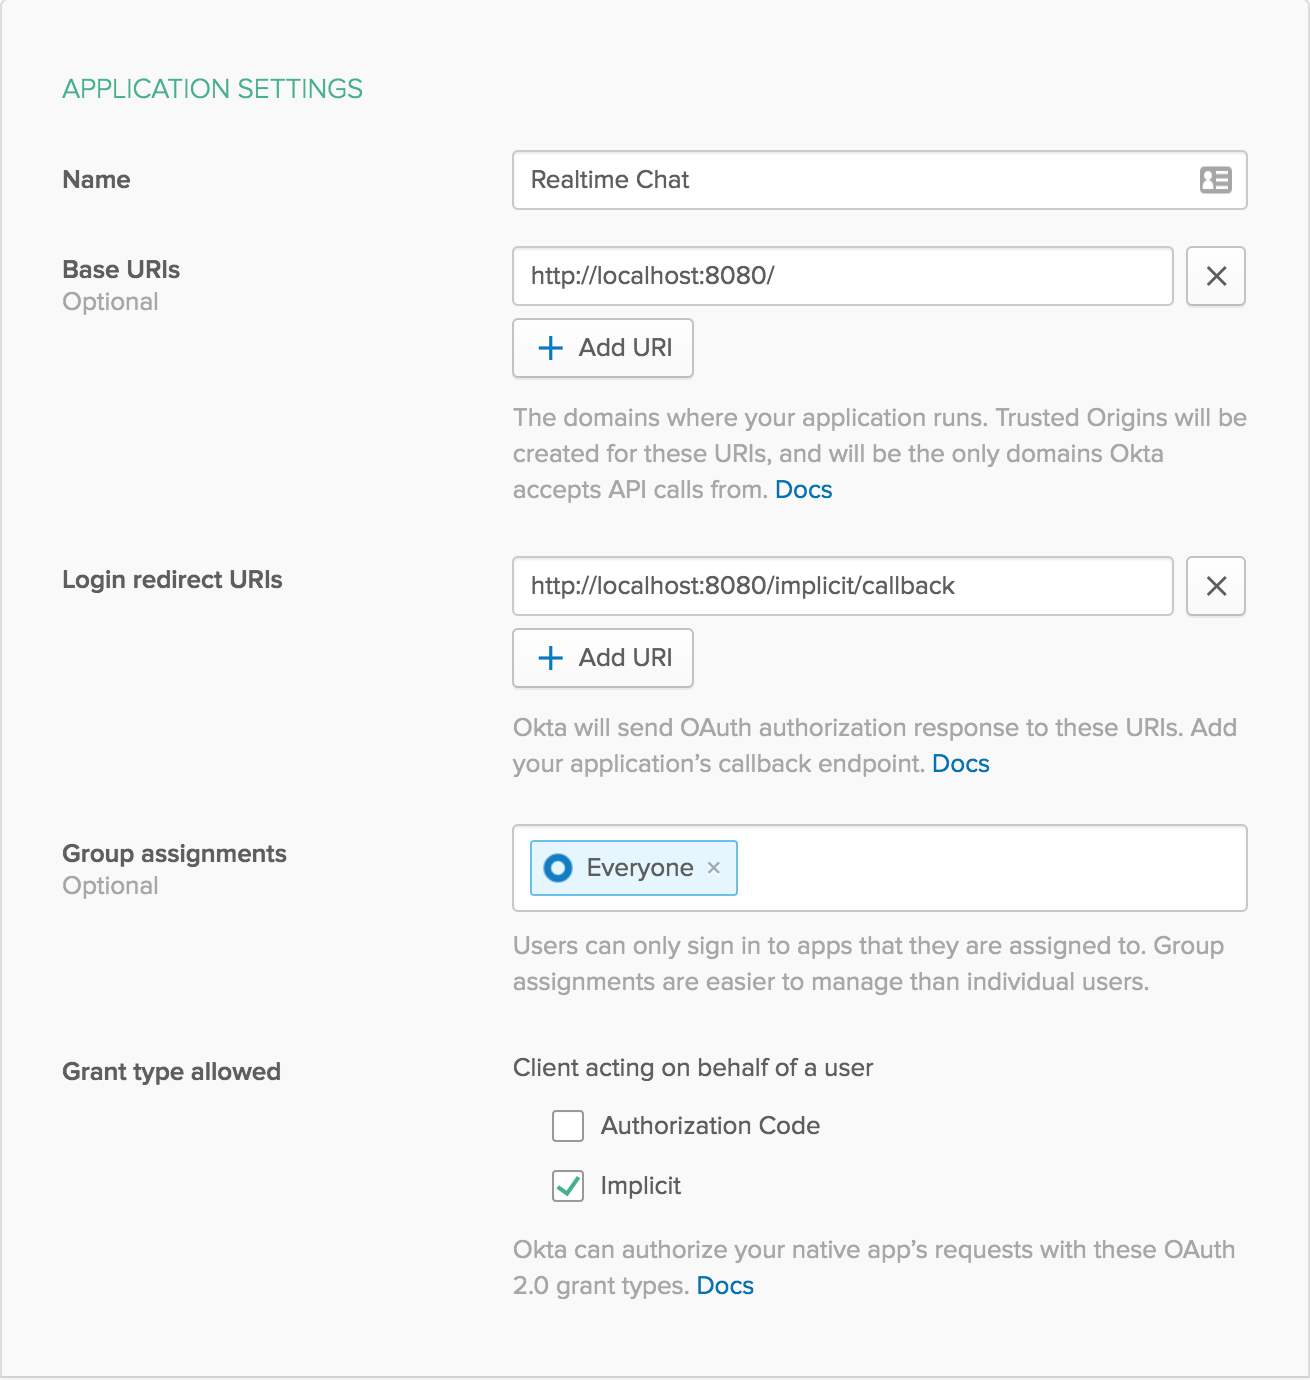
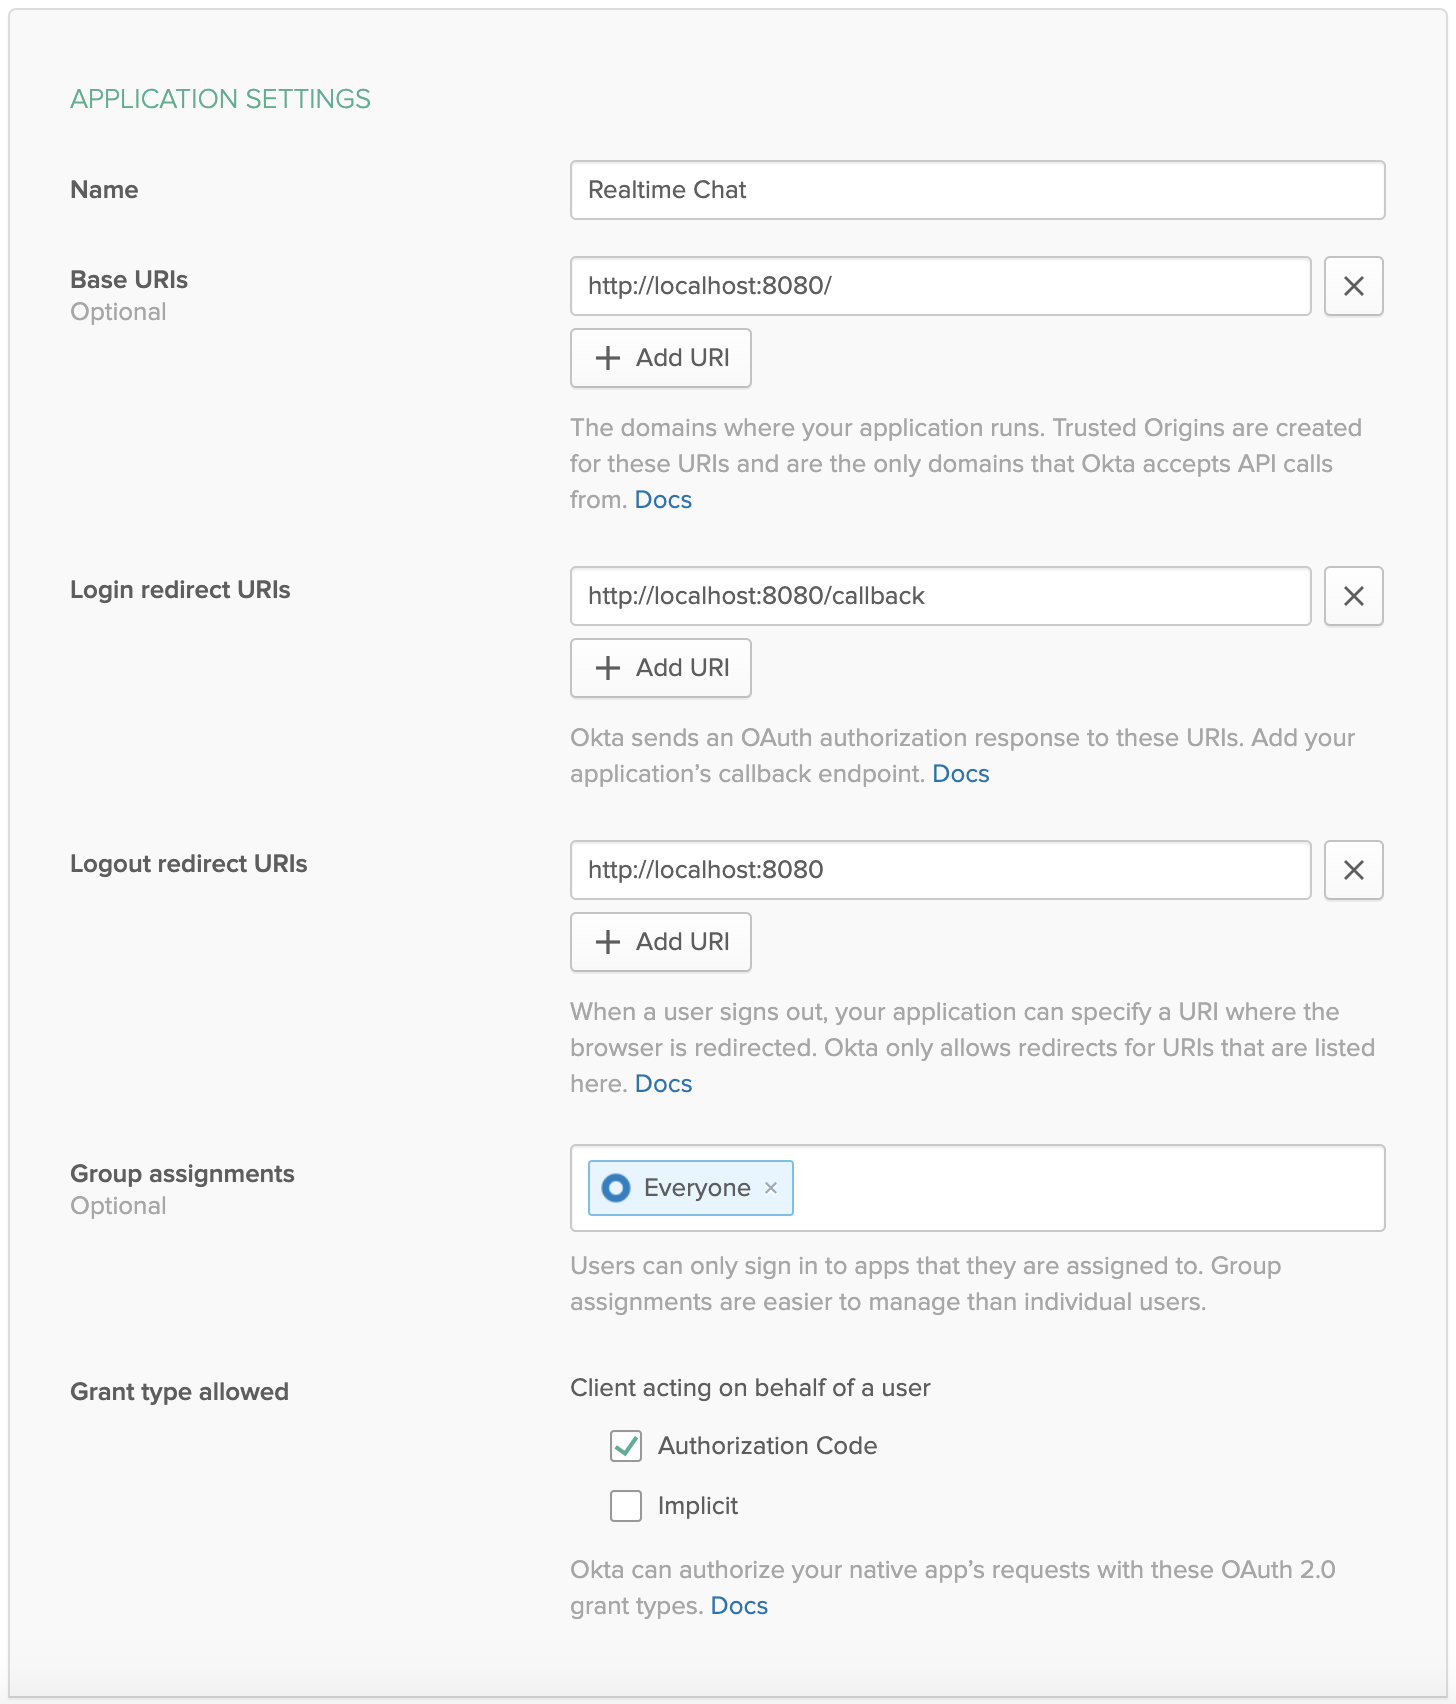
Update Node API with TypeScript to use latest versions

diff --git a/_source/_posts/2019-05-07-nodejs-typescript-api.md b/_source/_posts/2019-05-07-nodejs-typescript-api.md
@@ -23,12 +23,12 @@ If you're both a fan of JavaScript and strongly typed languages, then you're in 
 If you don't have Node installed yet, you'll need to do that first. That's the only real prerequisite for this tutorial. To see if you have it installed, try typing `node --version` in a terminal. You'll want to get a response back with something like `v8` or higher. If you get an error, you may need to install it. I recommend installing via [nvm](https://github.com/creationix/nvm). The install should look something like this:
 
 ```bash
-curl -o- https://raw.githubusercontent.com/creationix/nvm/v0.34.0/install.sh | bash
+curl -o- https://raw.githubusercontent.com/nvm-sh/nvm/v0.35.3/install.sh | bash
 ```
 
 But if that doesn't work, head to [the docs](https://github.com/creationix/nvm#installation-and-update) to see how to get it up and running for your system.
 
-Once you have Node running, create a new directory for your chat server, then use `npm` to create a package.json file for you:
+Once you have Node running, create a new directory for your chat server, then use `npm` to create a `package.json` file for you:
 
 ```bash
 mkdir real-time-chat
@@ -52,11 +52,11 @@ Edit the `package.json` file so the `"main"` entry says `"dist/index.js"`. Then 
 You'll also need to install some dependencies:
 
 ```bash
-npm install express@4.16.4
-npm install --save-dev typescript@3.3.3333 ts-node-dev@1.0.0-pre.32 tslint@5.13.1 @types/node@11.11.3 @types/express@4.16.1
+npm install express@4.17.1
+npm install --save-dev typescript@3.9.3 ts-node-dev@1.0.0-pre.44 tslint@6.1.2 @types/node@14.0.5 @types/express@4.17.6
 ```
 
-You'll need to create some configuration files for typescript. Create a `tslint.json` file:
+You'll need to create some configuration files for TypeScript. Create a `tslint.json` file:
 
 ```json
 {
@@ -67,7 +67,7 @@ You'll need to create some configuration files for typescript. Create a `tslint.
 }
 ```
 
-and a `tsconfig.json` file:
+And a `tsconfig.json` file:
 
 ```json
 {
@@ -123,8 +123,8 @@ Another neat developer tool is Parcel. It provides a really simple way to bundle
 To set this up with React, add the following dependencies:
 
 ```bash
-npm install react@16.8.5 react-dom@16.8.5
-npm install --save-dev parcel-bundler@1.12.3 @types/parcel-bundler@1.10.2 @types/react@16.8.8 @types/react@16.8.2 @babel/core@7.3.4 @babel/preset-env@7.3.4
+npm install react@16.13.1 react-dom@16.13.1
+npm install --save-dev parcel-bundler@1.12.4 @types/parcel-bundler@1.12.1 @types/react@16.9.35 @types/react@16.9.35 @babel/core@7.10.2 @babel/preset-env@7.10.2
 ```
 
 Create a new folder for your client-side code in `src/client`:
@@ -179,7 +179,7 @@ Then create a new file `src/client/index.html`:
 
 You'll then need to create the `src/client/index.tsx` file mentioned.
 
-```typescript
+```tsx
 import React from "react";
 import ReactDOM from "react-dom";
 
@@ -193,7 +193,7 @@ ReactDOM.render(
 
 As well as `src/client/App.tsx`:
 
-```typescript
+```tsx
 import React from "react";
 
 export default () => <div>Hello world</div>;
@@ -235,8 +235,8 @@ app.listen(port, () => {
 For real-time applications, Socket.IO makes it easy to send messages back and forth between the server and any connected clients. It uses WebSockets to keep a connection open so messages are instant, but it does fall back to polling in cases where WebSockets aren't available. You'll need to add a few new dependencies for this:
 
 ```bash
-npm install immutable@4.0.0-rc.12 socket.io@2.2.0 socket.io-client@2.2.0 uuid@3.3.2
-npm install --save-dev @types/socket.io@2.1.2 @types/uuid@3.4.4 sass@1.17.3
+npm install immutable@4.0.0-rc.12 socket.io@2.3.0 socket.io-client@2.3.0 uuid@8.1.0
+npm install --save-dev @types/socket.io@2.1.8 @types/uuid@8.0.0 sass@1.26.7
 ```
 
 ### Set Up the Backend
@@ -245,7 +245,7 @@ To set up the backend, create a new file `src/socket.ts`:
 
 ```typescript
 import { Server, Socket } from "socket.io";
-import uuid from "uuid/v4";
+import { v4 as uuidv4 } from "uuid";
 
 const messageExpirationTimeMS = 10 * 1000;
 
@@ -279,7 +279,7 @@ export default (io: Server) => {
 
     socket.on("message", (value: string) => {
       const message: IMessage = {
-        id: uuid(),
+        id: uuidv4(),
         time: new Date(),
         user: defaultUser,
         value,
@@ -433,7 +433,7 @@ Your server is all ready to go now. Next, you'll need to create a couple of new 
 
 Create a `src/client/NewMessage.tsx` component that will allow you to send a new message to the server:
 
-```typescript
+```tsx
 import React, { SyntheticEvent, useState } from "react";
 import { Socket } from "socket.io";
 
@@ -470,7 +470,7 @@ This sets up a simple form so that when you hit `Enter` that will trigger the fo
 
 You'll also need a way to display the messages. Create a new `src/client/MessageList.tsx` component:
 
-```typescript
+```tsx
 import { Map } from "immutable";
 import React, { SyntheticEvent, useEffect, useState } from "react";
 
@@ -583,9 +583,9 @@ The big missing piece though is all users are just "Anonymous". You could let us
 
 Okta is a cloud service that allows developers to create, edit, and securely store user accounts and user account data, and connect them with one or multiple applications.
 
-If you don't already have one, [sign up for a forever-free developer account](https://developer.okta.com/signup/). Log in to your developer console, navigate to **Applications**, then click **Add Application**. Select **Single-Page App**, then click **Next**. You can leave all the settings the same, just change the name of your app to something meaningful. The settings should look something like this:
+If you don't already have one, [sign up for a forever-free developer account](https://developer.okta.com/signup/). Log in to your developer console, navigate to **Applications**, then click **Add Application**. Select **Single-Page App**, then click **Next**. Change the name of your app to something meaningful and the **Login redirect URI** to be `http://localhost:8080/callback`. The settings should look something like this:
 
-{% img blog/node-typescript/create-new-application-settings.png alt:"Create New Application Settings" width:"800" %}{: .center-image }
+{% img blog/node-typescript/create-new-application-settings.png alt:"Create New Application Settings" width:"700" %}{: .center-image }
 
 Click **Done** to save your app, then copy your **Client ID** and paste it as a variable into a file called `.env` in the root of your project. This will allow you to access the file in your code without needing to store credentials in source control. You'll also need to add your organization URL (without the `-admin` suffix). The file should end up looking like this:
 
@@ -611,8 +611,8 @@ OKTA_TOKEN={yourToken}
 In order for your server to read the environment variables, you'll need to use `dotenv`. You'll also need to install the Okta SDK and a JWT Verifier to ensure that the tokens users are sending are valid. Install these dependencies:
 
 ```bash
-npm install dotenv@7.0.0 @okta/jwt-verifier@0.0.14 @okta/okta-sdk-nodejs@2.0.0
-npm install --save-dev @types/dotenv@6.1.0
+npm install dotenv@8.2.0 @okta/jwt-verifier@1.0.0 @okta/okta-sdk-nodejs@3.3.1
+npm install --save-dev @types/dotenv@8.2.0
 ```
 
 You'll first need to set up `dotenv`. At the very top of your `src/index.ts` file, add the following. It should be the first thing in your code to make sure the rest of your code has access to your environment variables from `.env`:
@@ -653,32 +653,32 @@ const oktaClient = new okta.Client({
 Now inside your `export default` function, before the call to `io.on("connection", connectionHandler)`, add the following middleware:
 
 ```typescript
-  const users: Map<Socket, IUser> = new Map();
+const users: Map<Socket, IUser> = new Map();
 
-  io.use(async (socket, next) => {
-    const { token = null } = socket.handshake.query || {};
-    if (token) {
-      try {
-        const [authType, tokenValue] = token.trim().split(" ");
-        if (authType !== "Bearer") {
-          throw new Error("Expected a Bearer token");
-        }
-
-        const { claims: { sub } } = await jwtVerifier.verifyAccessToken(tokenValue);
-        const user = await oktaClient.getUser(sub);
-
-        users.set(socket, {
-          id: user.id,
-          name: [user.profile.firstName, user.profile.lastName].filter(Boolean).join(" "),
-        });
-      } catch (error) {
-        // tslint:disable-next-line:no-console
-        console.log(error);
+io.use(async (socket, next) => {
+  const { token = null } = socket.handshake.query || {};
+  if (token) {
+    try {
+      const [authType, tokenValue] = token.trim().split(" ");
+      if (authType !== "Bearer") {
+        throw new Error("Expected a Bearer token");
       }
-    }
+ 
+      const { claims: { sub } } = await jwtVerifier.verifyAccessToken(tokenValue);
+      const user = await oktaClient.getUser(sub);
 
-    next();
-  });
+      users.set(socket, {
+        id: user.id,
+        name: [user.profile.firstName, user.profile.lastName].filter(Boolean).join(" "),
+      });
+    } catch (error) {
+      // tslint:disable-next-line:no-console
+      console.log(error);
+    }
+  }
+
+  next();
+});
 ```
 
 This will check the socket handshake to see if there's a `token` attached or not. If there is, it'll use the `jwtVerifier` to make sure it's a valid token. If it is, then it'll fetch information about the user so that it can get their name. Finally, it adds the user to an es6 `Map` so that it can look up the user by the `socket` later.
@@ -705,16 +705,16 @@ socket.on("disconnect", () => {
 You'll need some more packages in order to set up authentication on the client. Add the following:
 
 ```bash
-npm install @okta/okta-react@1.2.0 react-router@5.0.0 react-router-dom@5.0.0
+npm install @okta/okta-react@3.0.1 react-router@5.2.0 react-router-dom@5.2.0
 ```
 
-Okta uses React Router to handle routes and keep things secure. You'll need to wrap the `App` component in `Router` and `Security` wrappers, then render it as a `Route`. You'll need to add an `ImplicitCallback` route as well so that Okta knows what to do after you've authenticated in the browser. Edit your `src/client/index.tsx` file to look like this:
+Okta uses React Router to handle routes and keep things secure. You'll need to wrap the `App` component in `Router` and `Security` wrappers, then render it as a `Route`. You'll need to add an `LoginCallback` route as well so that Okta knows what to do after you've authenticated in the browser. Edit your `src/client/index.tsx` file to look like this:
 
 ```typescript
-import { ImplicitCallback, Security } from "@okta/okta-react";
 import React from "react";
 import ReactDOM from "react-dom";
 import { BrowserRouter as Router, Route } from "react-router-dom";
+import { LoginCallback, Security } from "@okta/okta-react";
 
 import App from "./App";
 
@@ -723,10 +723,10 @@ ReactDOM.render(
     <Security
       issuer={`${process.env.OKTA_ORG_URL}/oauth2/default`}
       client_id={process.env.OKTA_CLIENT_ID}
-      redirect_uri={`${window.location.origin}/implicit/callback`}
+      redirect_uri={`${window.location.origin}/callback`}
     >
       <Route path="/" exact component={App} />
-      <Route path="/implicit/callback" component={ImplicitCallback} />
+      <Route path="/callback" component={LoginCallback} />
     </Security>
   </Router>,
   document.getElementById("root"),
@@ -771,8 +771,7 @@ In your `src/client/App.tsx` file, you'll need to use the `useAuth` hook to get 
 
 ```typescript
 import { withAuth } from "@okta/okta-react";
-import { Map } from "immutable";
-import React, { SyntheticEvent, useEffect, useState } from "react";
+import React, { useEffect, useState } from "react";
 import io from "socket.io-client";
 
 import { useAuth } from "./auth";
@@ -780,7 +779,7 @@ import MessageList from "./MessageList";
 import NewMessage from "./NewMessage";
 
 export default withAuth(({ auth }) => {
-  const [authenticated, user, token] = useAuth(auth);
+  const [user, token] = useAuth(auth);
   const [socket, setSocket] = useState(null);
 
   useEffect(() => {
@@ -825,4 +824,4 @@ For more examples using Okta with Node, TypeScript, or React, check out some of 
 * [Build a Basic CRUD App with Angular and Node](https://developer.okta.com/blog/2018/10/30/basic-crud-angular-and-node)
 * [Build a Simple REST API with Node and OAuth 2.0](https://developer.okta.com/blog/2018/08/21/build-secure-rest-api-with-node)
 
-If you have any questions about this post, please add a comment below. For more awesome content, follow [@oktadev](https://twitter.com/oktadev) on Twitter, or subscribe to [our YouTube channel](https://www.youtube.com/channel/UC5AMiWqFVFxF1q9Ya1FuZ_Q).
+If you have any questions about this post, please add a comment below. For more awesome content, follow [@oktadev](https://twitter.com/oktadev) on Twitter, or subscribe to [our YouTube channel](https://www.youtube.com/c/oktadev).
